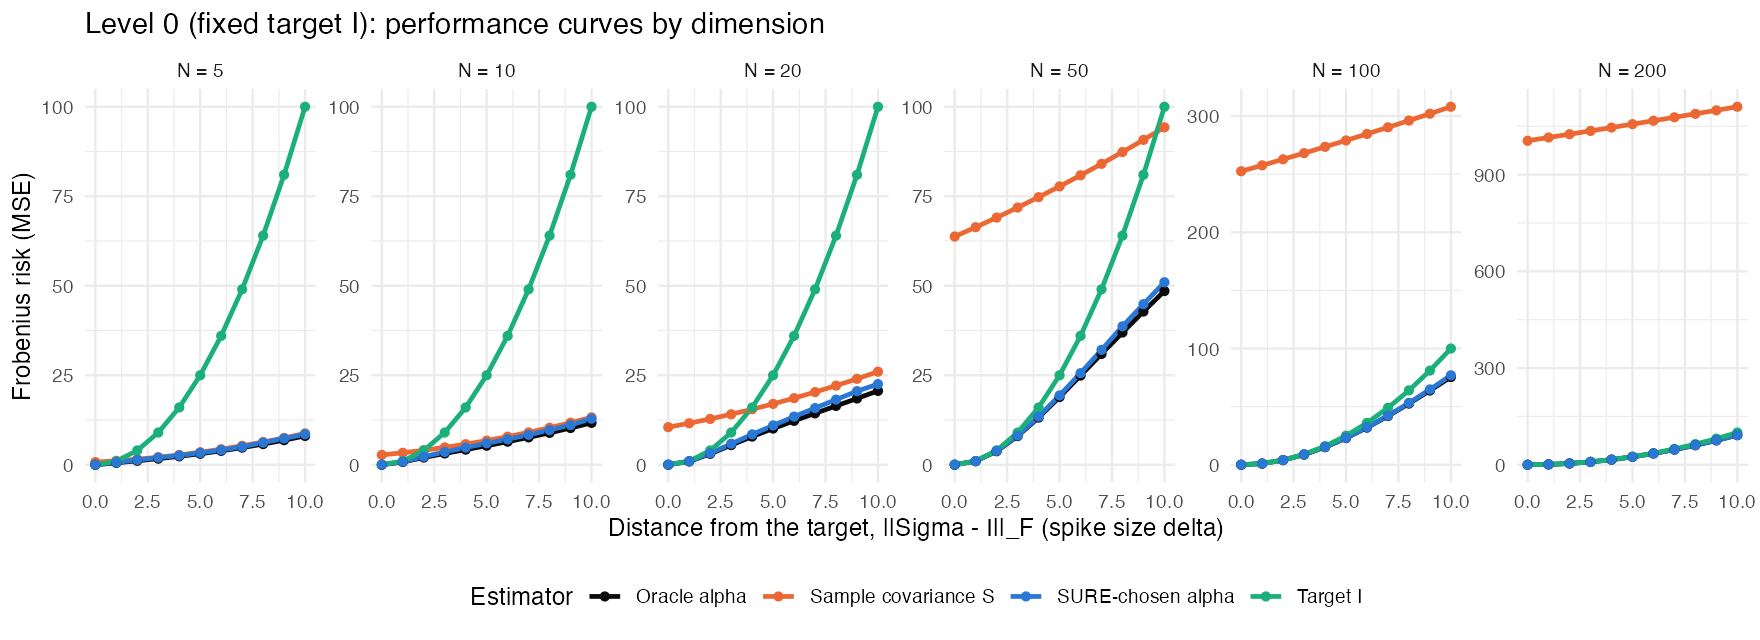
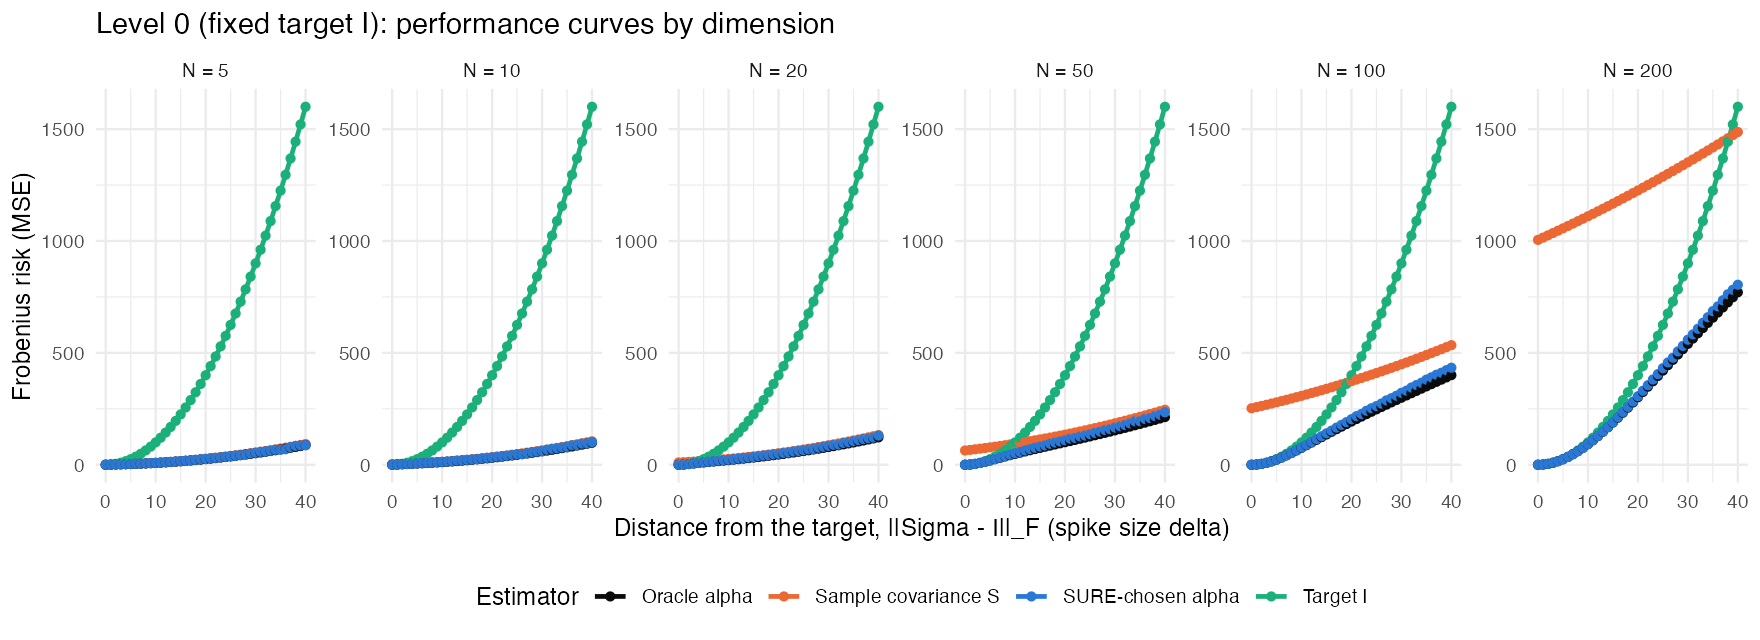
Level 0 figure relabel, hump check, Level 1 walkthrough log
- Figure 1 axes: "Distance from the target" and "Risk over S"
- sims/level0_hump_check.R: oracle ratio + cost of estimating alpha
- refs.bib: add Li and Zou (2016)
- PROGRESS.md: 2026-11-12/13 session log and resume point

Claude-Session: https://claude.ai/code/session_01LabnKP7ivwcsk4GxeAaf3s

diff --git a/PROGRESS.md b/PROGRESS.md
@@ -201,3 +201,50 @@ Overleaf structure now (labels in parentheses):
 Sims: sims/sure_levels01.qmd (Levels 0/1 R notebook), sims/level0_risk_ratio.R (fast, 14 s; reuses draws across delta).
 Next: write §7 (Goal 1 proofs) into Overleaf; idea: quadratic-form view f_ij = x_i'Hx_j/T, H = market projection, as §7 setup unifying §7/§8. Bao-Kan (2013) only useful for exact Goal 2 TRUE-risk curves (not SURE); not yet downloaded or cited.
 Pending decisions: add Magnus 1978/1986, Kruskal 1968, Bartz-Muller 2014, Sancetta 2008, Richardson-Smith 1991 to biblio.bib; §2.5 "[citation pending]". Rosenman meeting: confirm performance-curve x-axis and benchmarks.
+
+## Session 2026-11-12 (evening): §4 walkthrough with Jack + Yi–Zou formula finding
+Overleaf scratch edits (all in §4 unless noted; Jack reads everything in scratch):
+- Setup: added two-line display "mean unknown: (1/T)Σ(x_ta−x̄_a)(x_tb−x̄_b) / mean known to be 0: s_ab = (1/T)Σ x_ta x_tb".
+- Setup: added Jack's intuition for the single-index split (market fluctuation projected onto each stock via β_i = σ_0i/σ_00, plus idiosyncratic ψ_i; stocks co-move only through the market, hence Ψ diagonal).
+- Step 1: replaced the hand expansion with a direct application of Yi's lemma (§3.2): σ̂_ij = αf_ij + (1−α)s_ij, Cov(σ̂,s) = αCov(f,s) + (1−α)Var(s). Step 2 opener updated to match.
+- Subsection titles: dropped "Step n:" → "Expanding the risk" (sec:step-risk), "Stein's lemma for the cross term" (sec:step-cross), "Estimating the variance term" (sec:step-var). Prose still says "Step 1/2/3" in §4–§6 (Jack OK for now).
+- Variance section: added a line-by-line derivation of Var(s_ij) = (σ_iiσ_jj + σ_ij²)/T via lem:stein-cov with f_ij = s_ij (z_i = x_ti, φ = x_tj s_ij).
+- Kronecker δ_ik → indicator \mathbf{1}\{i = k\} throughout §4–§6 (Jack's preference). δ_ii in §3.1 is LW residual variance, left alone.
+- Multivariate Stein lemma: short proof added then REMOVED at Jack's request. TODO: add \citealp{stein1981} to the lemma header (Stein proves Σ = I; general Σ via z = Au).
+
+Discussed (no edit): assumptions are known mean 0, Gaussian, iid across days (Rosenman's "access to something we shouldn't" → likely known mean / Gaussianity; α fixed in Steps 1–3 is fine). Repetition: §3.1 LW expansion kept; §3.2 and Setup both explain known-mean vs T−1 (decide later). Notation clash for end-of-project check: §3.1 uses Φ = σ_00²ββ' + Δ, δ_ii; §4 uses Σ = σ_00ββ' + Ψ, ψ_i.
+
+FINDING — Yi–Zou (2013) eq. (2.4) / Yi dissertation Lemma 2.2.2 eq. (2.9) is NOT unbiased:
+- Their E[σ̃ˢ_ii σ̃ˢ_jj] (dissertation eq. 2.24) = (n+1)/(n−1)σ_iiσ_jj + 2(n+2)/(n(n−1))σ_ij² is wrong; correct Wishart moment is σ_iiσ_jj + 2σ_ij²/(n−1). Slip is in (2.20): middle terms need a factor n (Σ(x−x̄)² = Σx² − n x̄²). (2.9) is a correct solve of the wrong moment.
+- MC (400k reps, Σ = [2 1; 1 3]): n=5 true 1.750, Yi–Zou (MLE) 1.276; corrected [(n−3)s_ij² + (n−1)s_iis_jj]/((n+1)(n−2)) gives 1.744; n=10 0.778 vs 0.663 vs 0.778.
+- Li & Zou (2016), IEEE Trans. Inf. Theory 62(4):2153–2169, arXiv 1406.6514, §II.A eq. (3) silently uses the CORRECTED coefficients a_n = n(n−3)/((n−1)(n−2)(n+1)), b_n = n/((n+1)(n−2)); verified they equal our corrected estimator × (n−1)/n on the MLE scale. No erratum for Yi–Zou found. PDF saved: papers/Li-Zou2016.pdf.
+- Thesis known-mean estimator [(T−2)s_ij² + T s_iis_jj]/((T+2)(T−1)) is correct (our own two-moment-equation solve). Cite Yi–Zou for the method, Li–Zou (2016) for the corrected estimated-mean coefficients; footnote the discrepancy.
+- ⏰ RAISE WITH ROSENMAN before any claim goes into the proper paper.
+Relevant Li–Zou sections: §II.A (eq. 2–3, the estimator), §III.B (SURE tuning vs oracle tuning: relevant to the α̂ question later), §II.B optional.
+
+Rules (Jack, 2026-11-12): free to write in the Overleaf SCRATCH project; ALWAYS ask before committing text to the proper/final paper.
+
+### 2026-11-12 (late): Level 0 figure relabel + non-monotone curve
+- Fixed §2.1 overfull hbox in scratch (Cov formulas moved to a two-line gather*). Scratch compiles clean: 0 errors, 0 box warnings.
+- Figure 1 (`sims/level0_risk_ratio.R`, also the thesis chunk in `sims/sure_levels01.qmd`): x label now "Distance from the target, ‖Σ − I‖" (dropped "spike size δ"), y label "Risk over S". PNG regenerated and re-uploaded to the scratch Overleaf. Paragraph and caption there still say Σ = I + δvv′ (not changed).
+- Finding: the SURE-tuned curve is NOT monotone for small N. N=5 peaks at 0.983 (distance 6.5) then falls to 0.965 at 40; N=10 peaks at 0.962 (distance 17) then 0.956. N>=50 still rising at 40.
+- Reason: every curve tends to T/(T+2) = 0.952 (T=40), not to 1. Var(S) grows like δ² just like the squared distance, so the best α settles at 2/(T+2), and α-hat tends to the same constant. Oracle-α ratio = Tδ²/((T+2)δ² + (2N+2)δ + N² + N) is monotone (0.898 at 6.5 and 0.945 at 40 for N=5); the hump is the cost of estimating α with few entries.
+- Scratch sentence "it fades as Σ moves away from the target" is loose given this: the gain levels off at 2/(T+2), about 5%. Not edited yet.
+- Scratch Level 0: added 3 sentences on the non-monotone curve (alpha* vs alpha-hat, cost of estimating alpha, limits T/(T+2) and 2/(T+2); limits are my algebra, not yet derived in the thesis).
+- Scratch Level 1 opening rewritten in the Level 0 structure: estimator Σ-hat = α ν I + (1−α) S; "What changes in the risk" (cross term keeps N diagonal terms, underbrace ≠ 0); "What simplifies" (lemma derivation kept + direct check Σ_i Cov(ν, s_ii) = Var(tr S)/N = 2 tr(Σ²)/(NT)); "What does not simplify" (cross term must be estimated; two unknown scalars). Rest of Level 1 (moments, V-hat, b-hat, SURE, α-hat, Checks) untouched. Compiles clean.
+- Scratch Level 1 "What simplifies" expanded at Jack's request: (1) write ν as (1/NT) Σ_u Σ_m x_um², (2) differentiate w.r.t. x_tk to get 2x_tk/(NT) (zero for the market, k = 0), (3) six-line align* substituting into Lemma stein-cov, with a line-by-line sentence; then the sum over (i,j) and the variance check now written as N·Var(ν), matching Jack's "it should be a variance" intuition. Compiles clean.
+- Scratch Level 1 simplified again (Jack: "do we have to have m ... I thought we can directly push through"): removed the step that rewrote ν as a double sum with extra indices. Derivative now comes straight from tr(S) = s_11 + ... + s_NN and the ∂s_ij/∂x_tk formula already in sec:step-var (i = j = k gives 2x_tk/T). Two steps left: differentiate, substitute into the lemma. Compiles clean.
+- Scratch Level 1 "What simplifies" cut down at Jack's request ("only keep the covariance proof"): now only Σ_i Cov(ν, s_ii) = Cov(ν, Nν) = N·Var(ν) = Var(tr S)/N = 2tr(Σ²)/(NT). The Stein-lemma derivation (derivative of ν + six-line align*) was REMOVED from Level 1. Consequence to revisit: Level 1 no longer uses Lemma stein-cov, so Level 2 is the first target where the derivative route is actually carried out. Old text recoverable from Overleaf History. Compiles clean.
+
+### 2026-11-13: Level 1 "What does not simplify" + end-of-day handoff
+- Jack asked whether the MGF / numerical-integral method from the James–Stein performance-curve project has a parallel at Level 1. Answer: no. Level 1 only needs polynomials in S, so everything is closed form. Real parallels are (a) the performance curve itself, where α-hat is a ratio, and (b) Level 2, where f_ij = s_0i s_0j / s_00 has a random denominator. Jack is fine with no parallel here.
+- Explained in chat what "estimating the trace" takes: tr S is already unbiased for tr Σ; the risk needs A = (tr Σ)² and B = tr(Σ²), and the plug-ins P = (tr S)², Q = tr(S²) are biased upward. Three steps: compute P and Q; use E[P] = A + 2B/T and E[Q] = B + (A + B)/T; solve the two linear equations. Gives Â = T[(T+1)P − 2Q]/((T+2)(T−1)), B̂ = T[TQ − P]/((T+2)(T−1)), and V̂ = (Â + B̂)/T. Worked example T = 40, tr S = 5, tr(S²) = 10: Â = 24.54, B̂ = 9.16, V̂ = 0.8425 (plug-in 0.875).
+- Jack could not follow the scratch text after "What does not simplify" ("I do not know what I am looking at"). Diagnosis: the text has no short names for the unknowns, never says what the two moment equations are for, and jumps from them straight to V̂ and b̂ (the solve is not shown, and the estimate of (tr Σ)² never appears on its own). NO EDIT MADE. Offered rewrite, not yet accepted: name the two unknowns, say the plug-ins are biased, show the solve as its own step, then V̂, b̂, SURE(α), α-hat.
+- Scratch Overleaf state at end of day: 578 lines, compiles with 0 errors and 0 warnings. All edits from 2026-11-12/13 are live there (Overleaf saves automatically; old versions in its History). The repo does NOT hold a copy of the current main.tex; thesis/sec4_stein.tex is older.
+- Code: sims/level0_hump_check.R added (decomposes the SURE risk ratio into oracle ratio + cost of estimating α for N = 5, 20, 50; backs the non-monotone-curve finding).
+
+RESUME HERE (next session):
+1. Level 1, "What does not simplify": do the rewrite above if Jack wants it, then walk through SURE(α), α-hat vs α*, and the Checks paragraph.
+2. §5.3 (term dropped by Ledoit–Wolf 2004), then Level 2.
+3. Open, not acted on: "it fades as Σ moves away from the target" is loose (gain levels off near 5%); Level 0 paragraph and caption still say Σ = I + δvv′; two remaining $$ displays in §2.1; Level 2 narrative now that Level 1 no longer uses Lemma stein-cov; notation check §3.1 vs §4; plain vs squared distance on the performance-curve axes.
+4. For Rosenman: Yi–Zou eq. 2.4 bias finding; the numerical-integral question; the T/(T+2) limit before it goes into the proper paper.
